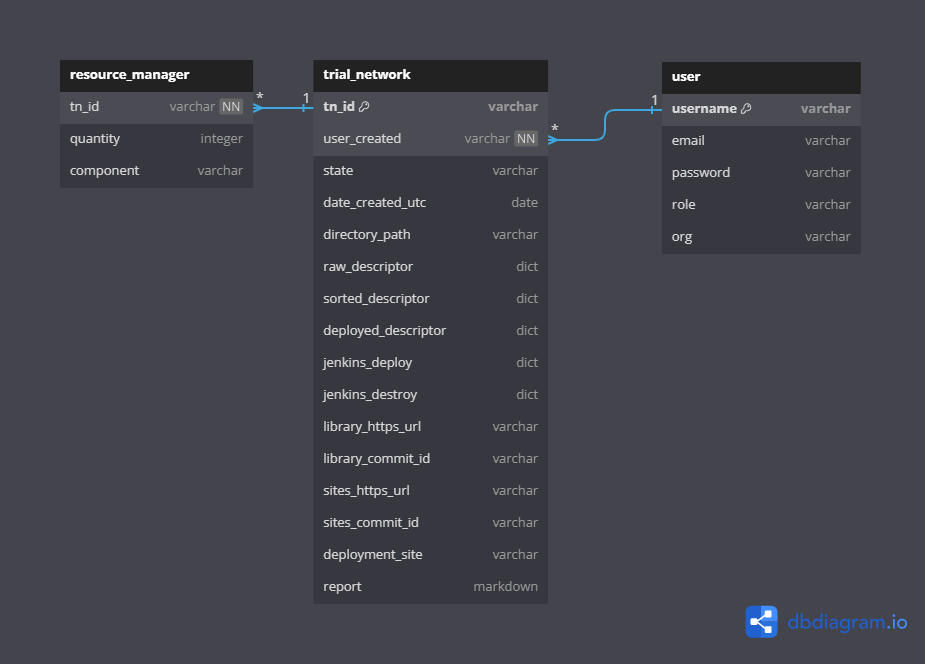
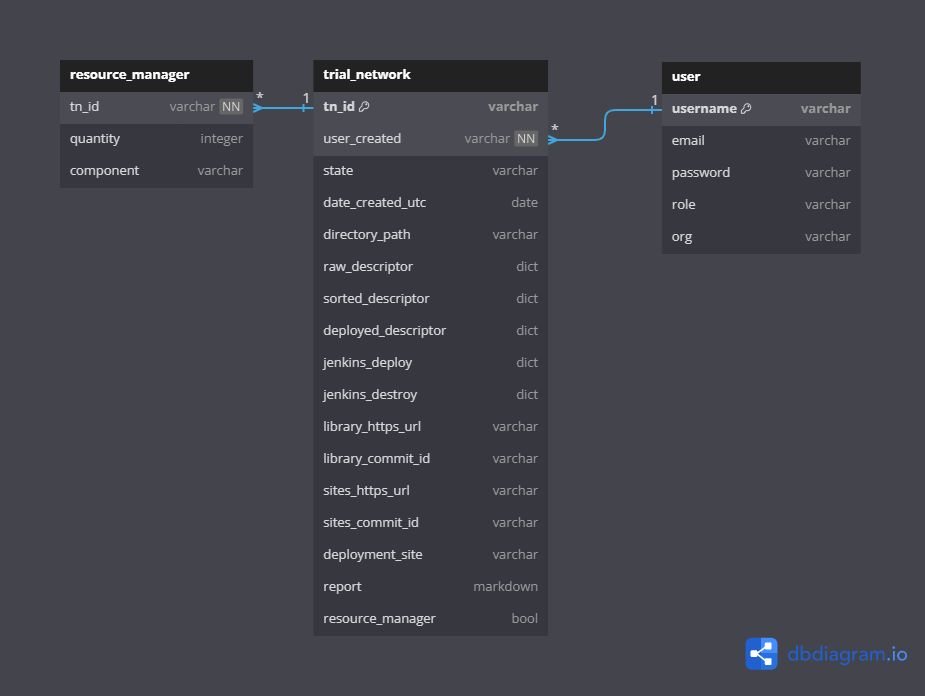
fix: tnlcm docs

diff --git a/docs/tnlcm/home.md b/docs/tnlcm/home.md
@@ -19,9 +19,9 @@ TNLCM/                       // main directory.
 │  ├─ exceptions/            // directory that handler the creation of custom exceptions.
 │  ├─ jenkins/               // directory that handler the connection with Jenkins for tn deployment.
 │  ├─ library/               // directory that handler the connection to the Library repository.
+│  ├─ libs/                  // directory that handler the connection to the local libraries.
 │  ├─ logs/                  // directory that handler the logs configuration.
 │  ├─ models/                // directory that contains the database models.
-│  ├─ repository/            // directory that handler the connection to any repository.
 │  ├─ routes/                // directory that handler the API that is exposed.
 │  ├─ sites/                 // directory that handler the connection to the Sites repository.
 │  └─ utils/                 // directory that handler data conversions and storage in YAML, Markdown and JSON formats.

diff --git a/docs/tnlcm/database-schema.md b/docs/tnlcm/database-schema.md
@@ -37,6 +37,7 @@ TNLCM database, created with MongoDB, consists of several collections that store
 | `sites_commit_id`                   | string   | Sites commit ID                            |
 | `deployment_site`                   | string   | Deployment site of trial network           |
 | `report`                            | markdown | Report related to the trial network        |
+| `resource_manager`                  | string   | Determines if resource manager is applied  |
 
 ### Collection `user`
 
